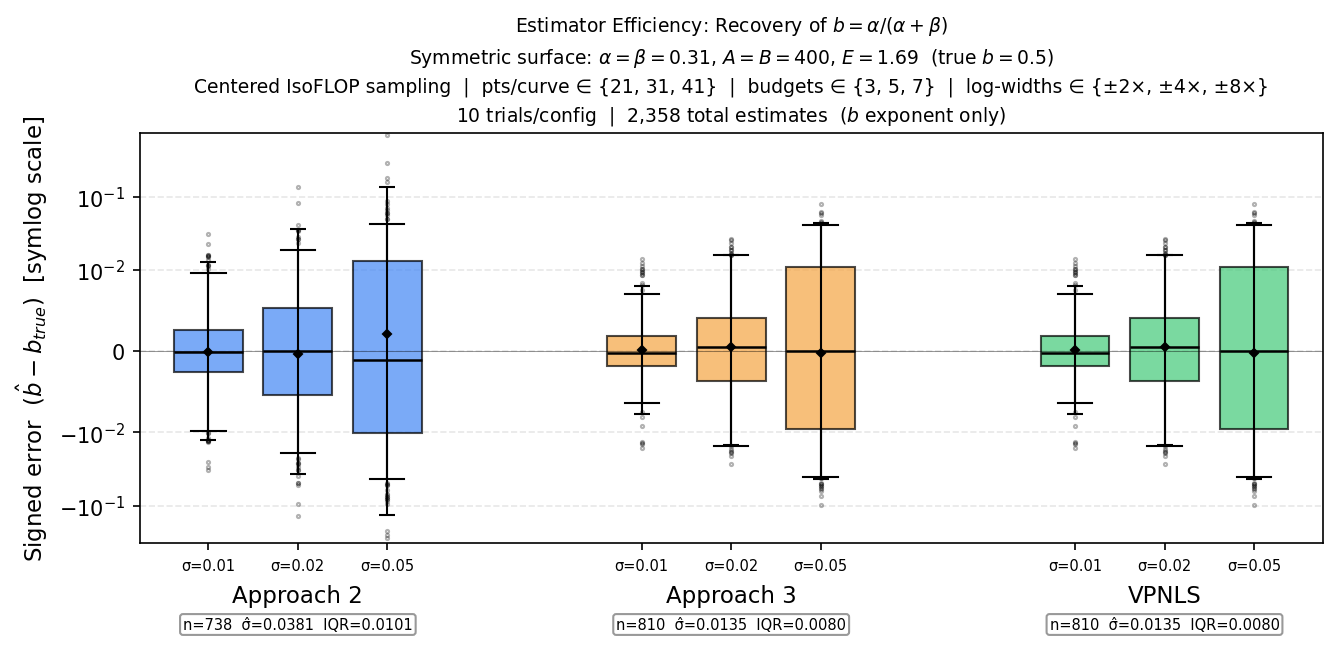
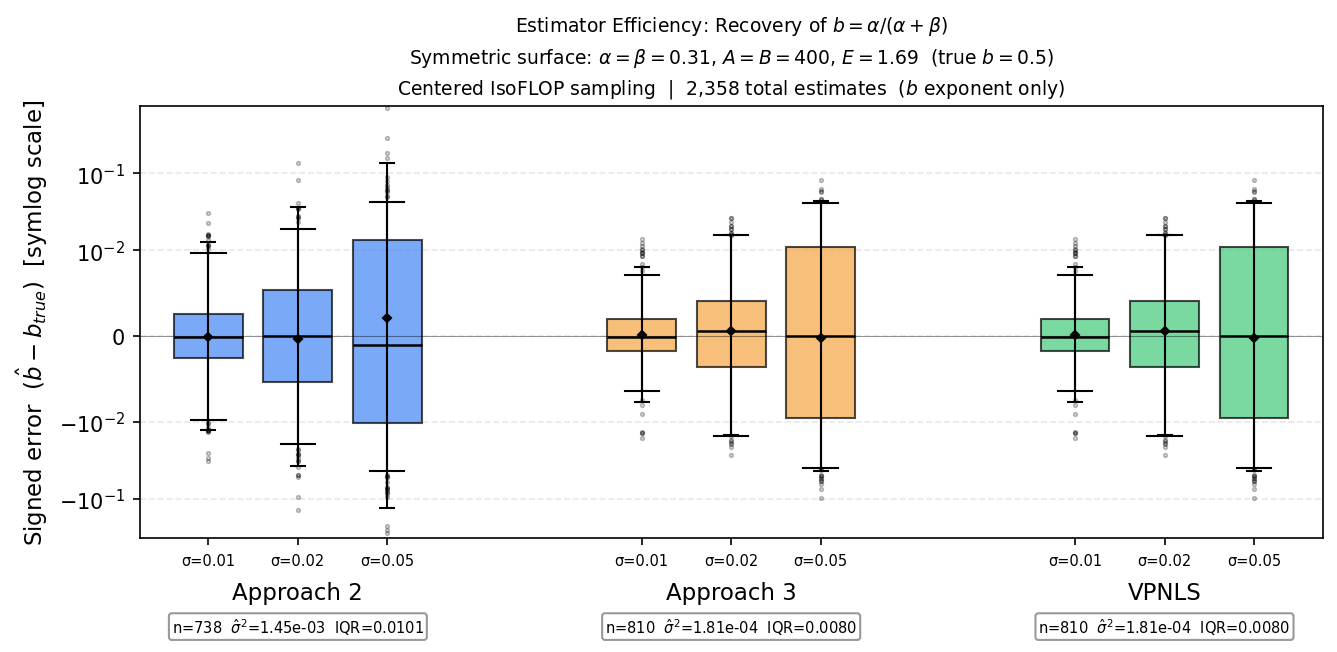
docs: add data efficiency section to article and simplify detailed figure
Add Method Comparison (Data Efficiency) section and appendix breakdown.
Remove error bar overlays from detailed boxplot for cleaner visualization,
use variance annotations instead of std, and update figure captions.

diff --git a/results/article/article.html b/results/article/article.html
@@ -579,6 +579,7 @@
                         <li><a href="#vpnls">Variable Projection (VPNLS)</a></li>
                         <li><a href="#method-comparison-recovery">Method Comparison (Parameter Recovery)</a></li>
                         <li><a href="#method-comparison-inference">Method Comparison (Exponent Inference)</a></li>
+                        <li><a href="#method-comparison-efficiency">Method Comparison (Data Efficiency)</a></li>
                     </ol>
                 </li>
                 <li>
@@ -594,6 +595,7 @@
                         <li><a href="#appendix-combined-extrapolation">Combined Extrapolation Error by Compute Budget</a></li>
                         <li><a href="#appendix-noisy-isoflop">IsoFLOP Samples with Noise</a></li>
                         <li><a href="#appendix-exponent-errors">Exponent Inference Error Breakdown</a></li>
+                        <li><a href="#appendix-data-efficiency">Data Efficiency Error Breakdown</a></li>
                     </ol>
                 </li>
             </ol>
@@ -2215,6 +2217,51 @@
                 </p>
             </div>
 
+            <h3 id="method-comparison-efficiency">Method Comparison (Data Efficiency)</h3>
+
+            <p>
+                The <a href="#method-comparison-inference">exponent inference</a>
+                comparison above used an asymmetric surface with off-center sampling,
+                conditions designed to test structural biases. Here we do the opposite,
+                returning to the ideal conditions of the
+                <a href="#symmetric-surfaces">symmetric surfaces</a> section
+                (\(\alpha = \beta = 0.31\), perfectly centered sampling) where
+                Approach&nbsp;2 has no structural bias. All methods are unbiased in
+                this setting, so the relevant comparison is variance. For
+                unbiased estimators, statistical efficiency is proportional to the
+                inverse of variance, so lower variance means more precise
+                estimates for a given sample size. Even under
+                these ideal conditions, Figure&nbsp;12 shows that Approach&nbsp;2
+                recovers scaling exponents with roughly 8&times; higher variance than
+                Approach&nbsp;3 or VPNLS.
+            </p>
+
+            <figure>
+                <img src="figures/data_efficiency/data_efficiency.png"
+                    alt="Data efficiency comparison: variance of exponent estimates across methods and noise levels">
+                <figcaption>
+                    <strong>Figure 12:</strong> Estimator variance for the compute-optimal
+                    exponent \(b = \alpha/(\alpha+\beta)\) on a symmetric surface
+                    (\(\alpha = \beta = 0.31\), \(A = B = 400\), \(E = 1.69\), true
+                    \(b = 0.5\)) with perfectly centered IsoFLOP sampling. Left: overall
+                    variance pooled across noise levels. Right: variance by noise level.
+                    Sweep over points per curve &isin; {21, 31, 41},
+                    budget counts &isin; {3, 5, 7},
+                    log-widths &isin; {&plusmn;2&times;, &plusmn;4&times;, &plusmn;8&times;},
+                    noise levels &sigma; &isin; {0.01, 0.02, 0.05},
+                    with 10 trials per configuration.
+                    Lower variance is better.
+                    Approach&nbsp;3 and VPNLS achieve comparable precision; Approach&nbsp;2
+                    is consistently less efficient.
+                </figcaption>
+            </figure>
+
+            <p>
+                <a href="#appendix-data-efficiency">Figure&nbsp;A5</a> breaks these results
+                down by noise level, showing the full distribution of signed errors for each
+                method.
+            </p>
+
         </section>
 
         <!-- Section 7: Conclusion -->
@@ -2418,6 +2465,20 @@
                     panel, boxplots show absolute relative error (%) on a log scale for each
                     method at each points-per-curve setting (4, 8, 16, 32), over 256 noise
                     realizations.
+                </figcaption>
+            </figure>
+
+            <h3 id="appendix-data-efficiency">E. Data Efficiency Error Breakdown</h3>
+
+            <figure>
+                <img src="appendix/data_efficiency_detailed.png"
+                    alt="Boxplots of data efficiency errors broken down by noise level for Approach 2, Approach 3, and VPNLS">
+                <figcaption>
+                    <strong>Figure A5:</strong> Per-noise-level breakdown of signed exponent
+                    errors from <a href="#method-comparison-efficiency">Figure&nbsp;12</a>.
+                    Boxplots show the distribution of \(\hat{b} - b_{\mathrm{true}}\) on a
+                    symlog scale for each method at each noise level. Pooled summary
+                    statistics (sample size, variance, IQR) are shown below each method group.
                 </figcaption>
             </figure>
         </section>

diff --git a/src/scaling_law_analysis/experiments/exp9_data_efficiency.py b/src/scaling_law_analysis/experiments/exp9_data_efficiency.py
@@ -217,25 +217,6 @@ def plot(errors: Errors, output_path: str | Path) -> None:
         bp["boxes"][i].set_facecolor(method_colors[method])
         bp["boxes"][i].set_alpha(0.7)
 
-    # Overlay mean ± 2σ error bars
-    for i, (method, noise) in enumerate([(m, s) for m in methods for s in NOISE_STDS]):
-        vals = np.array(errors[(method, noise)])
-        if len(vals) > 0:
-            mean = np.mean(vals)
-            std2 = 2 * np.std(vals)
-            ax.errorbar(
-                positions[i],
-                mean,
-                yerr=std2,
-                fmt="D",
-                color="black",
-                markersize=3,
-                capsize=4,
-                capthick=1,
-                linewidth=1,
-                zorder=5,
-            )
-
     ax.axhline(0, color="black", linewidth=0.5, alpha=0.4)
     ax.set_yscale("symlog", linthresh=0.01)
     # Tick labels: method name on center, noise σ under each box
@@ -266,12 +247,12 @@ def plot(errors: Errors, output_path: str | Path) -> None:
             all_vals.extend(errors[(method, noise)])
         vals = np.array(all_vals)
         n = len(vals)
-        std = np.std(vals)
+        var = np.var(vals)
         iqr = np.percentile(vals, 75) - np.percentile(vals, 25)
         ax.text(
             group_centers[gi],
             -0.18,
-            f"n={n}  \u03c3\u0302={std:.4f}  IQR={iqr:.4f}",
+            f"n={n}  $\\hat{{\\sigma}}^2$={var:.2e}  IQR={iqr:.4f}",
             fontsize=7,
             ha="center",
             va="top",
@@ -289,10 +270,6 @@ def plot(errors: Errors, output_path: str | Path) -> None:
         r"(true $b = 0.5$)"
         "\n"
         f"Centered IsoFLOP sampling  |  "
-        f"pts/curve \u2208 {{{', '.join(str(n) for n in N_POINTS_LIST)}}}  |  "
-        f"budgets \u2208 {{{', '.join(str(n) for n in N_BUDGETS_LIST)}}}  |  "
-        f"log-widths \u2208 {{\u00b12\u00d7, \u00b14\u00d7, \u00b18\u00d7}}\n"
-        f"{N_TRIALS} trials/config  |  "
         f"{total_estimates:,} total estimates  ($b$ exponent only)",
         fontsize=9,
         linespacing=1.5,

diff --git a/src/scaling_law_analysis/article/figures.py b/src/scaling_law_analysis/article/figures.py
@@ -1685,9 +1685,14 @@ def copy_experiment_outputs(output_dir: Path) -> None:
             exp_dir / "exp7" / "exponent_inference_errors.png",
             appendix_dir / "exponent_inference_errors.png",
         ),
+        (
+            exp_dir / "exp9" / "data_efficiency_detailed.png",
+            appendix_dir / "data_efficiency_detailed.png",
+        ),
     ]
 
     inference_dir = prepare_output_dir(output_dir / "figures" / "exponent_inference")
+    data_efficiency_dir = prepare_output_dir(output_dir / "figures" / "data_efficiency")
     main_copies = [
         (
             exp_dir / "exp7" / "exponent_inference.png",
@@ -1696,6 +1701,10 @@ def copy_experiment_outputs(output_dir: Path) -> None:
         (
             exp_dir / "exp7" / "exponent_inference.csv",
             inference_dir / "exponent_inference.csv",
+        ),
+        (
+            exp_dir / "exp9" / "data_efficiency.png",
+            data_efficiency_dir / "data_efficiency.png",
         ),
     ]
 

diff --git a/specs/experiments.md b/specs/experiments.md
@@ -278,3 +278,19 @@ A perturbation test confirms the scale of the problem: displacing by δ=10⁻⁴
 7. Explain why statistical noise masks the conditioning gap in practice.
 
 **Output**: Text report at `results/experiments/exp8/conditioning_analysis.txt`.
+
+
+## Experiment 9: Data Efficiency
+
+**Question**: How do Approach 2, Approach 3, and VPNLS compare in exponent recovery accuracy under noisy, data-limited conditions?
+
+**Method**: Reimplement the Monte Carlo comparison from `demo/chinchilla_fit_methods.py` using codebase utilities (`fit_approach2`, `fit_approach3`, `fit_vpnls`, `isoflop_sample`). Symmetric surface (α=β=0.31, A=B=400, E=1.69), perfectly centered sampling. Sweep:
+   - Noise: σ ∈ {0.05, 0.1, 0.2, 0.3}
+   - Points/curve: {21, 31, 41}
+   - Budgets: {3, 5, 7} (log-spaced 10¹⁷–10²¹)
+   - Widths: {±2×, ±4×, ±8×}
+   - 10 trials/condition (seeded RNG, advancing across trials)
+
+For each trial, fit all three methods and record signed exponent errors (â − a_true, b̂ − b_true). Pool across conditions.
+
+**Visualization**: Boxplot of signed errors per method (symlog scale) with summary stats (n, mean, std, median, IQR). Output: `results/experiments/exp9/data_efficiency.png`.

diff --git a/specs/article.md b/specs/article.md
@@ -208,8 +208,11 @@
     - VPNLS is roughly equivalent in typical accuracy to well-configured Approach 3 and produced the smallest max errors in this experiment
     - Key practical takeaway: grid search initialization and LSE reparameterization are the critical ingredients for stable Approach 3 fits, yet [misfitting] documents that many published studies omit one or both
     - Appendix boxplot figure breaks results down by noise level, budget count, and points per curve for a granular view
-
-
+- **Method Comparison (Data Efficiency)**
+  - Returns to symmetric surface with centered sampling (no structural bias); compares estimator variance
+  - Approach 2's variance is ~8× higher than Approach 3 / VPNLS even under ideal conditions
+  - Figure: bar chart of pooled variance + heatmap by noise level (Experiment 9)
+  - Appendix boxplot figure shows per-noise-level signed error distributions
 
 ---
 

diff --git a/TODO.md b/TODO.md
@@ -6,6 +6,7 @@ On article:
   - Add limitations:
     - Add limitation on the possibility of sampling grid errors canceling out
     - Add limitation on not exploring data efficiency (yet)
+  - Add exp6 validation for proof to appendix
   - Mention the demo prompt examples for making your own simulator; examples:
     - https://gemini.google.com/share/6b5b3e9b3e0b
     - https://chatgpt.com/share/69879ab5-957c-800e-a37f-038b10d79f1e
